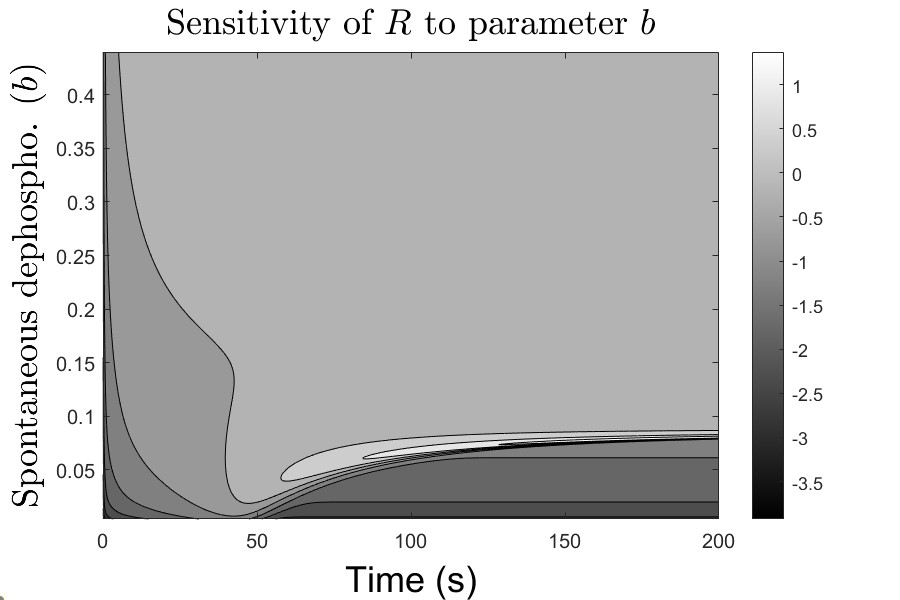
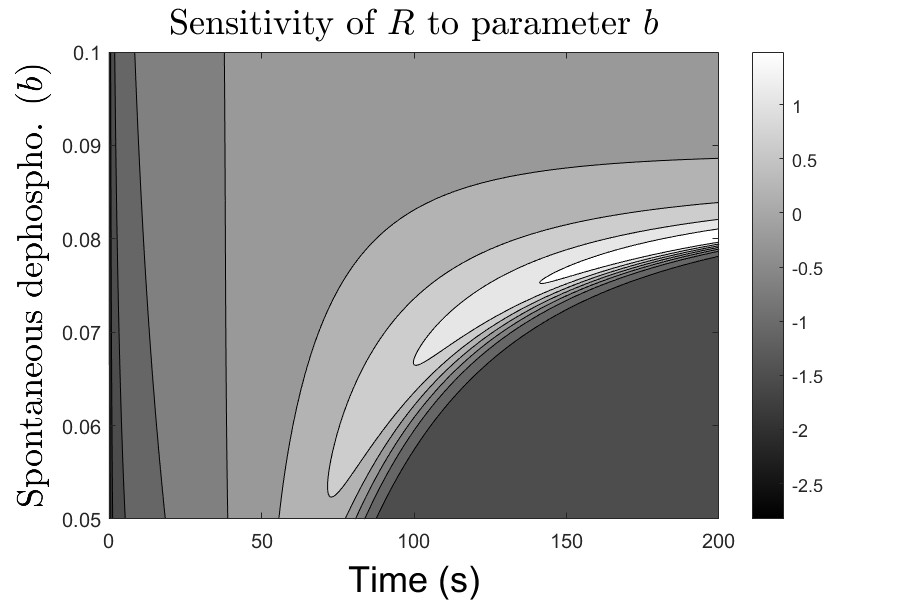
A

diff --git a/Leveraging mathematical models P2/Sensitivity/Sensitivity Analysis/KPR_NF2_Sensitivity.m b/Leveraging mathematical models P2/Sensitivity/Sensitivity Analysis/KPR_NF2_Sensitivity.m
@@ -12,44 +12,32 @@ clear
 
     % --------------- UNBINDING RATE -----------------------------
 % Vector de valores de koff
-koffVect = 0.001:0.001:1;
-
-% Resultados con el número de filas de koff y en cada columna el instante
-% temporal
-results_matrix = zeros(length(koffVect), length(solution{1}(:, 1))); 
-for i = 1:length(koffVect)
-
-    p = complex([5e-5, koffVect(i), 1, 4.4e-4, 0.04, 1, 2e-4, 6e5, exp(-1*2), exp(-1*1), exp(0)], 0);
-
-    solution = sensitivity(x0, p, d, tspan);
-
-    % COJO LA RESPUESTA QUE ME INTERESA:
-    SolResponse = solution{10}(:, 3); 
-    % Normalización de la respuesta
-    newSol = (SolResponse .* koffVect(i)) ./ solution{10}(:, 1); 
-
-    % En la fila que define un valor de koff
-    results_matrix(i, :) = newSol;
-end
-
-save('nf2_KOFF.mat','tspan','koffVect','results_matrix');
-
-results_matrix1 = abs(results_matrix);
-
-figure('Position', [100, 100, 600, 400]);
-contourf(tspan, koffVect, results_matrix, 10, 'LineColor', 'k');
-colormap(gray);
-colorbar;
-xlabel('Time (s)', 'FontSize', 18, 'Color', 'k', 'FontWeight', 'normal');
-ylabel('$k_{off}$', 'FontSize', 18, 'Color', 'k', 'FontWeight', 'normal', 'Interpreter', 'latex');
-title('KPR-NF2', 'FontSize', 18, 'FontWeight', 'bold', 'Color', 'k');
-set(gca, 'YDir', 'normal');
-hold on
-
-% results_matrix1 = abs(log10(results_matrix));
+% koffVect = 0.001:0.001:1;
+% 
+% % Resultados con el número de filas de koff y en cada columna el instante
+% % temporal
+% results_matrix = zeros(length(koffVect), length(solution{1}(:, 1))); 
+% for i = 1:length(koffVect)
+% 
+%     p = complex([5e-5, koffVect(i), 1, 4.4e-4, 0.04, 1, 2e-4, 6e5, exp(-1*2), exp(-1*1), exp(0)], 0);
+% 
+%     solution = sensitivity(x0, p, d, tspan);
+% 
+%     % COJO LA RESPUESTA QUE ME INTERESA:
+%     SolResponse = solution{10}(:, 3); 
+%     % Normalización de la respuesta
+%     newSol = (SolResponse .* koffVect(i)) ./ solution{10}(:, 1); 
+% 
+%     % En la fila que define un valor de koff
+%     results_matrix(i, :) = newSol;
+% end
+% 
+% save('nf2_KOFF.mat','tspan','koffVect','results_matrix');
+% 
+% results_matrix1 = abs(results_matrix);
 % 
 % figure('Position', [100, 100, 600, 400]);
-% contourf(tspan, koffVect, results_matrix1, 10, 'LineColor', 'k');
+% contourf(tspan, koffVect, results_matrix, 10, 'LineColor', 'k');
 % colormap(gray);
 % colorbar;
 % xlabel('Time (s)', 'FontSize', 18, 'Color', 'k', 'FontWeight', 'normal');
@@ -57,29 +45,41 @@ hold on
 % title('KPR-NF2', 'FontSize', 18, 'FontWeight', 'bold', 'Color', 'k');
 % set(gca, 'YDir', 'normal');
 % hold on
-
-results_matrix2 = log10(abs(results_matrix));
-
-figure('Position', [100, 100, 600, 400]);
-contourf(tspan, koffVect, results_matrix2, 10, 'LineColor', 'k');
-colormap(gray);
-colorbar;
-xlabel('Time (s)', 'FontSize', 18, 'Color', 'k', 'FontWeight', 'normal');
-ylabel('$k_{off}$', 'FontSize', 18, 'Color', 'k', 'FontWeight', 'normal', 'Interpreter', 'latex');
-title('KPR-NF2', 'FontSize', 18, 'FontWeight', 'bold', 'Color', 'k');
-set(gca, 'YDir', 'normal');
-hold on
-
-inferno = csvread('inferno_colormap.csv');
-figure('Position', [100, 100, 600, 400]);
-imagesc(tspan, koffVect, results_matrix2);
-colormap(inferno);
-cb = colorbar;
-xlabel('Time (s)', 'FontSize', 18, 'Color', 'k', 'FontWeight', 'normal');
-ylabel('$k_{off}$', 'FontSize', 18, 'Color', 'k', 'FontWeight', 'normal', 'Interpreter', 'latex');
-title('KPR-NF2', 'FontSize', 18, 'FontWeight', 'bold', 'Color', 'k');
-set(gca, 'YDir', 'normal');
+% 
+% % results_matrix1 = abs(log10(results_matrix));
+% % 
+% % figure('Position', [100, 100, 600, 400]);
+% % contourf(tspan, koffVect, results_matrix1, 10, 'LineColor', 'k');
+% % colormap(gray);
+% % colorbar;
+% % xlabel('Time (s)', 'FontSize', 18, 'Color', 'k', 'FontWeight', 'normal');
+% % ylabel('$k_{off}$', 'FontSize', 18, 'Color', 'k', 'FontWeight', 'normal', 'Interpreter', 'latex');
+% % title('KPR-NF2', 'FontSize', 18, 'FontWeight', 'bold', 'Color', 'k');
+% % set(gca, 'YDir', 'normal');
+% % hold on
+% 
+% results_matrix2 = log10(abs(results_matrix));
+% 
+% figure('Position', [100, 100, 600, 400]);
+% contourf(tspan, koffVect, results_matrix2, 10, 'LineColor', 'k');
+% colormap(gray);
+% colorbar;
+% xlabel('Time (s)', 'FontSize', 18, 'Color', 'k', 'FontWeight', 'normal');
+% ylabel('$k_{off}$', 'FontSize', 18, 'Color', 'k', 'FontWeight', 'normal', 'Interpreter', 'latex');
+% title('KPR-NF2', 'FontSize', 18, 'FontWeight', 'bold', 'Color', 'k');
+% set(gca, 'YDir', 'normal');
 % hold on
+% 
+% inferno = csvread('inferno_colormap.csv');
+% figure('Position', [100, 100, 600, 400]);
+% imagesc(tspan, koffVect, results_matrix2);
+% colormap(inferno);
+% cb = colorbar;
+% xlabel('Time (s)', 'FontSize', 18, 'Color', 'k', 'FontWeight', 'normal');
+% ylabel('$k_{off}$', 'FontSize', 18, 'Color', 'k', 'FontWeight', 'normal', 'Interpreter', 'latex');
+% title('KPR-NF2', 'FontSize', 18, 'FontWeight', 'bold', 'Color', 'k');
+% set(gca, 'YDir', 'normal');
+% % hold on
 
 
 %     % --------------- BINDING RATE -----------------------------
@@ -177,7 +177,7 @@ set(gca, 'YDir', 'normal');
 % %    --------------- b (dephosphorylation rate) TO r(T) -----------------------------
 % % Vector de valores de koff
 bVect = 0.004:0.001:0.44;
-bVect = linspace(0.004, 0.44, 1000); % 1000% por arriba y por abajo
+bVect = linspace(0.05, 0.1, 500); % 1000% por arriba y por abajo
 
 % Resultados con el número de filas de koff y en cada columna el instante
 % temporal
